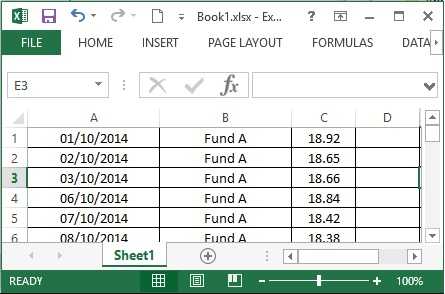
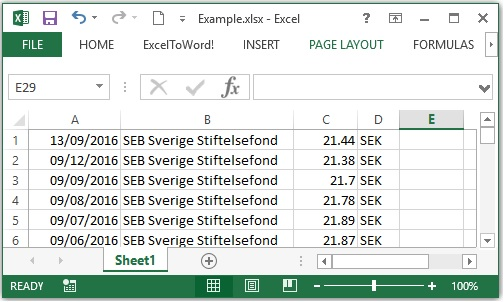
fix

Changed region(s): [[0.0, 0.0, 1.0, 1.0]]

diff --git a/protected/views/uploads/upload_form.php b/protected/views/uploads/upload_form.php
@@ -31,7 +31,7 @@ $form=$this->beginWidget('CActiveForm', array(
     
     <div class="col-sm-12 control-label">
     <p> The data should be an excel file, with the sheet name "Sheet1" and the data starting in cell A1. 
-        The data should be dates (dd/mm/yyyy) in column A, name of instruments in column B, and price in column C.
+        The data should be dates (dd/mm/yyyy) in column A, name of instruments in column B, price in column C, and currency in column D.
         The instruments in the list will be created if they don't exist previously.
     </p>
     </div>  

diff --git a/protected/controllers/UploadsController.php b/protected/controllers/UploadsController.php
@@ -237,7 +237,7 @@ class UploadsController extends Controller
                 Yii::app()->user->setFlash('success', "Prices Uploaded!");
            
                   @chmod( $tempLoc, 0777 );
-                  unlink( $tempLoc );           
+                  @unlink( $tempLoc );           
                              
                   //unlink(Yii::getPathOfAlias('webroot').'/uploads/'.$model->upload_file); 
         
